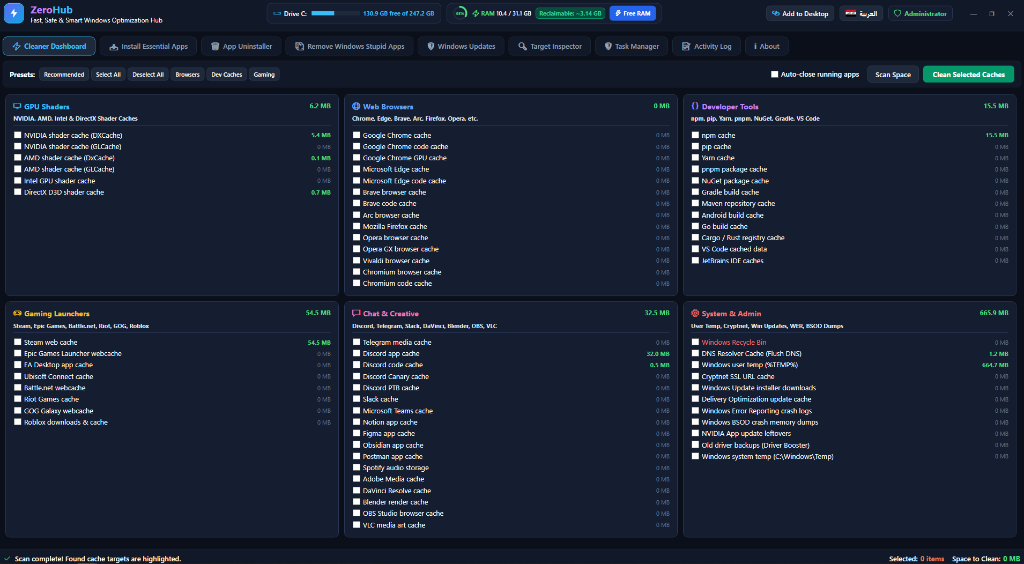
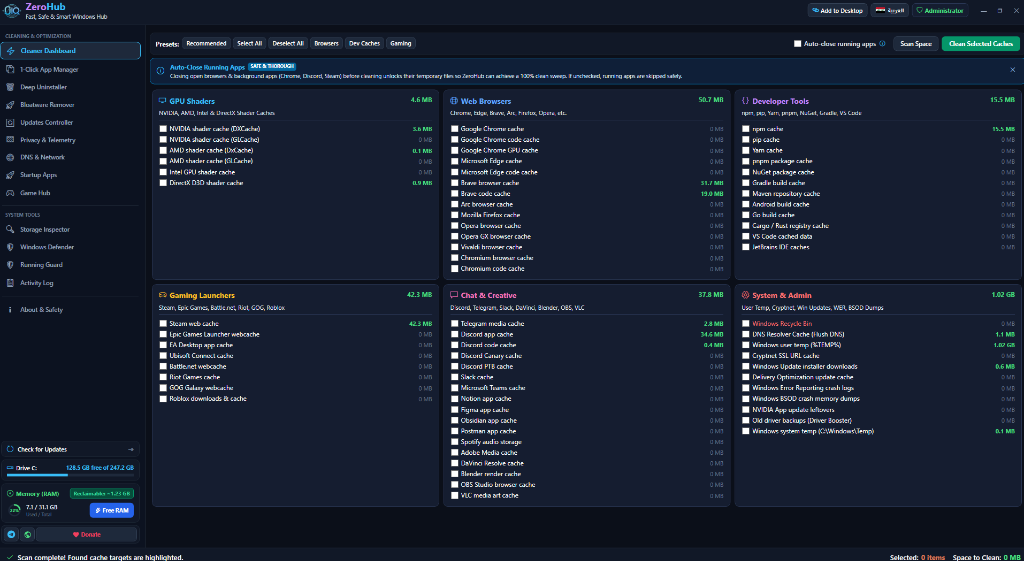
docs: update screenshots gallery in README with latest UI design

diff --git a/README.md b/README.md
@@ -37,11 +37,19 @@ irm https://raw.githubusercontent.com/ZeroIQs/Zerohub/main/run.ps1 | iex
 </p>
 
 <p align="center">
-  <img src="assets/screenshot_installer.png" alt="ZeroHub App Installer" width="100%">
+  <img src="assets/screenshot_installer.png" alt="ZeroHub App Manager & Updater" width="100%">
 </p>
 
 <p align="center">
-  <img src="assets/screenshot_about.png" alt="ZeroHub Power Modules" width="100%">
+  <img src="assets/screenshot_updates.png" alt="ZeroHub Windows Updates Controller" width="100%">
+</p>
+
+<p align="center">
+  <img src="assets/screenshot_privacy.png" alt="ZeroHub Privacy & Anti-Telemetry Hardener" width="100%">
+</p>
+
+<p align="center">
+  <img src="assets/screenshot_bloatware.png" alt="ZeroHub Windows Bloatware Remover" width="100%">
 </p>
 
 ---
